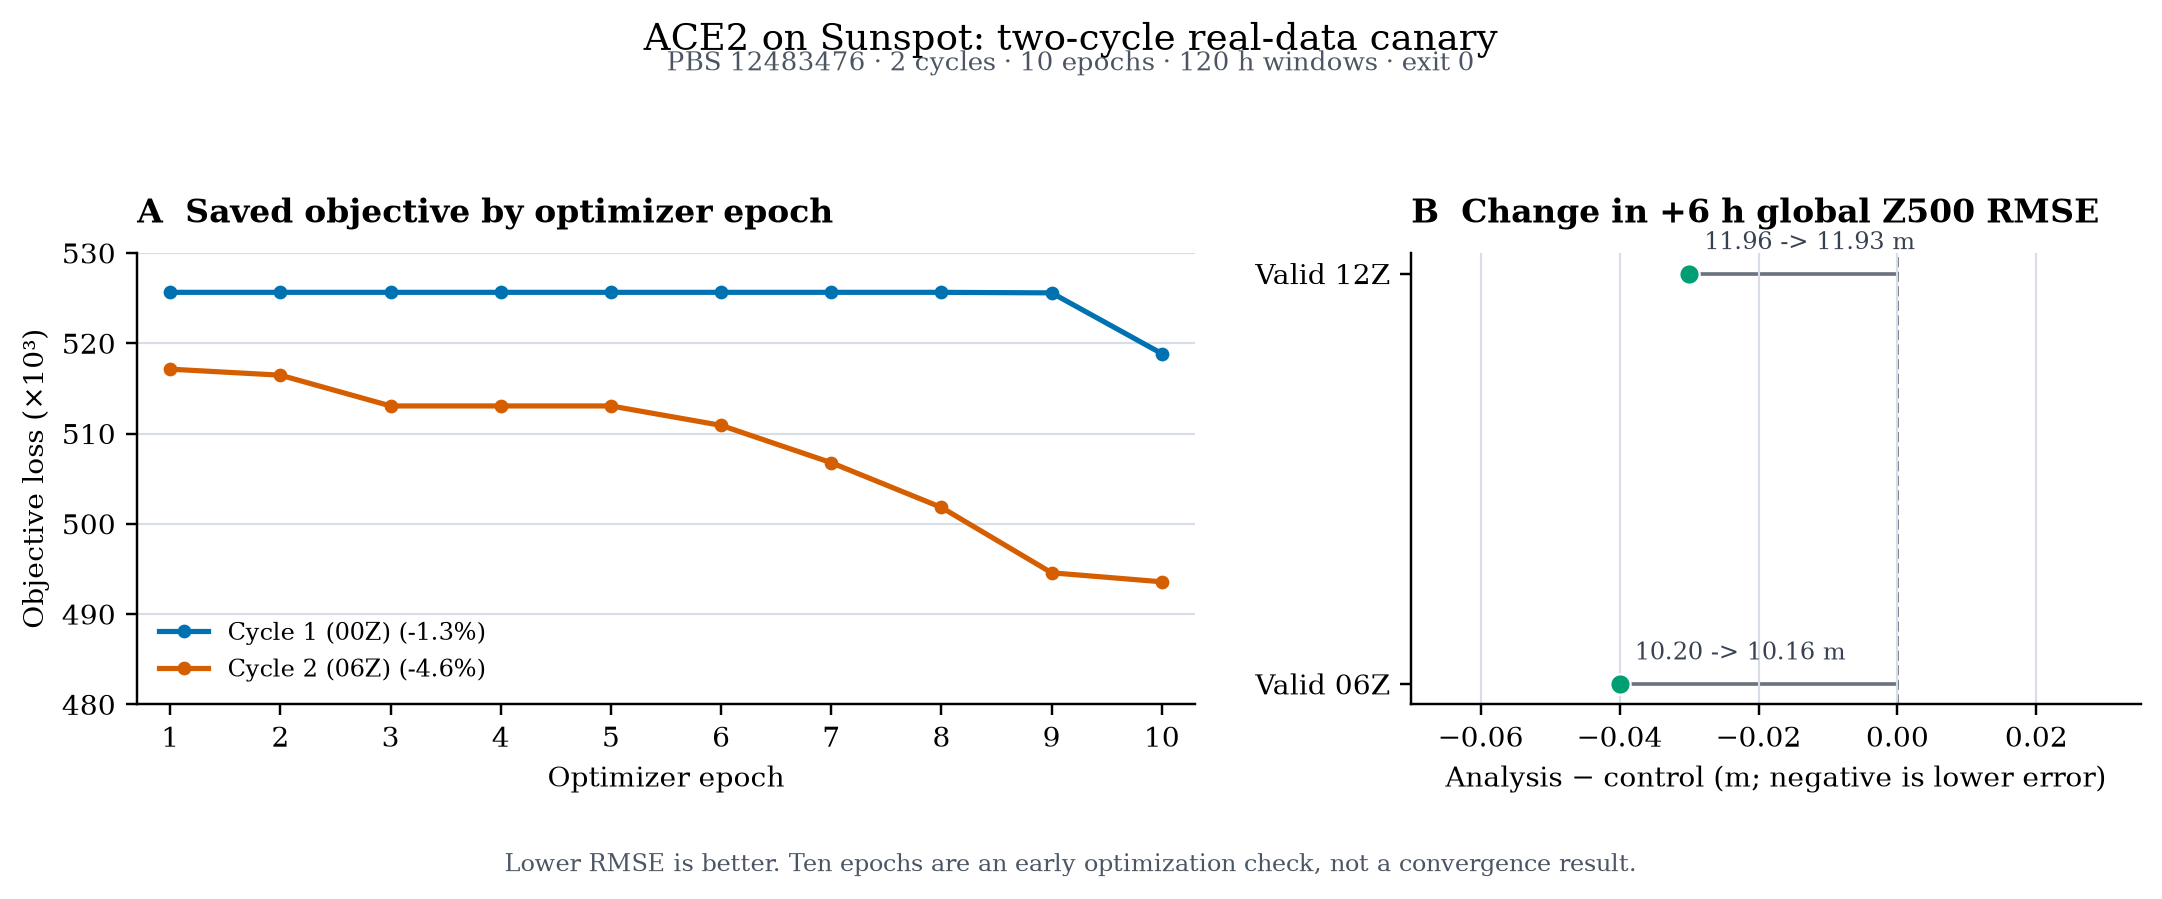
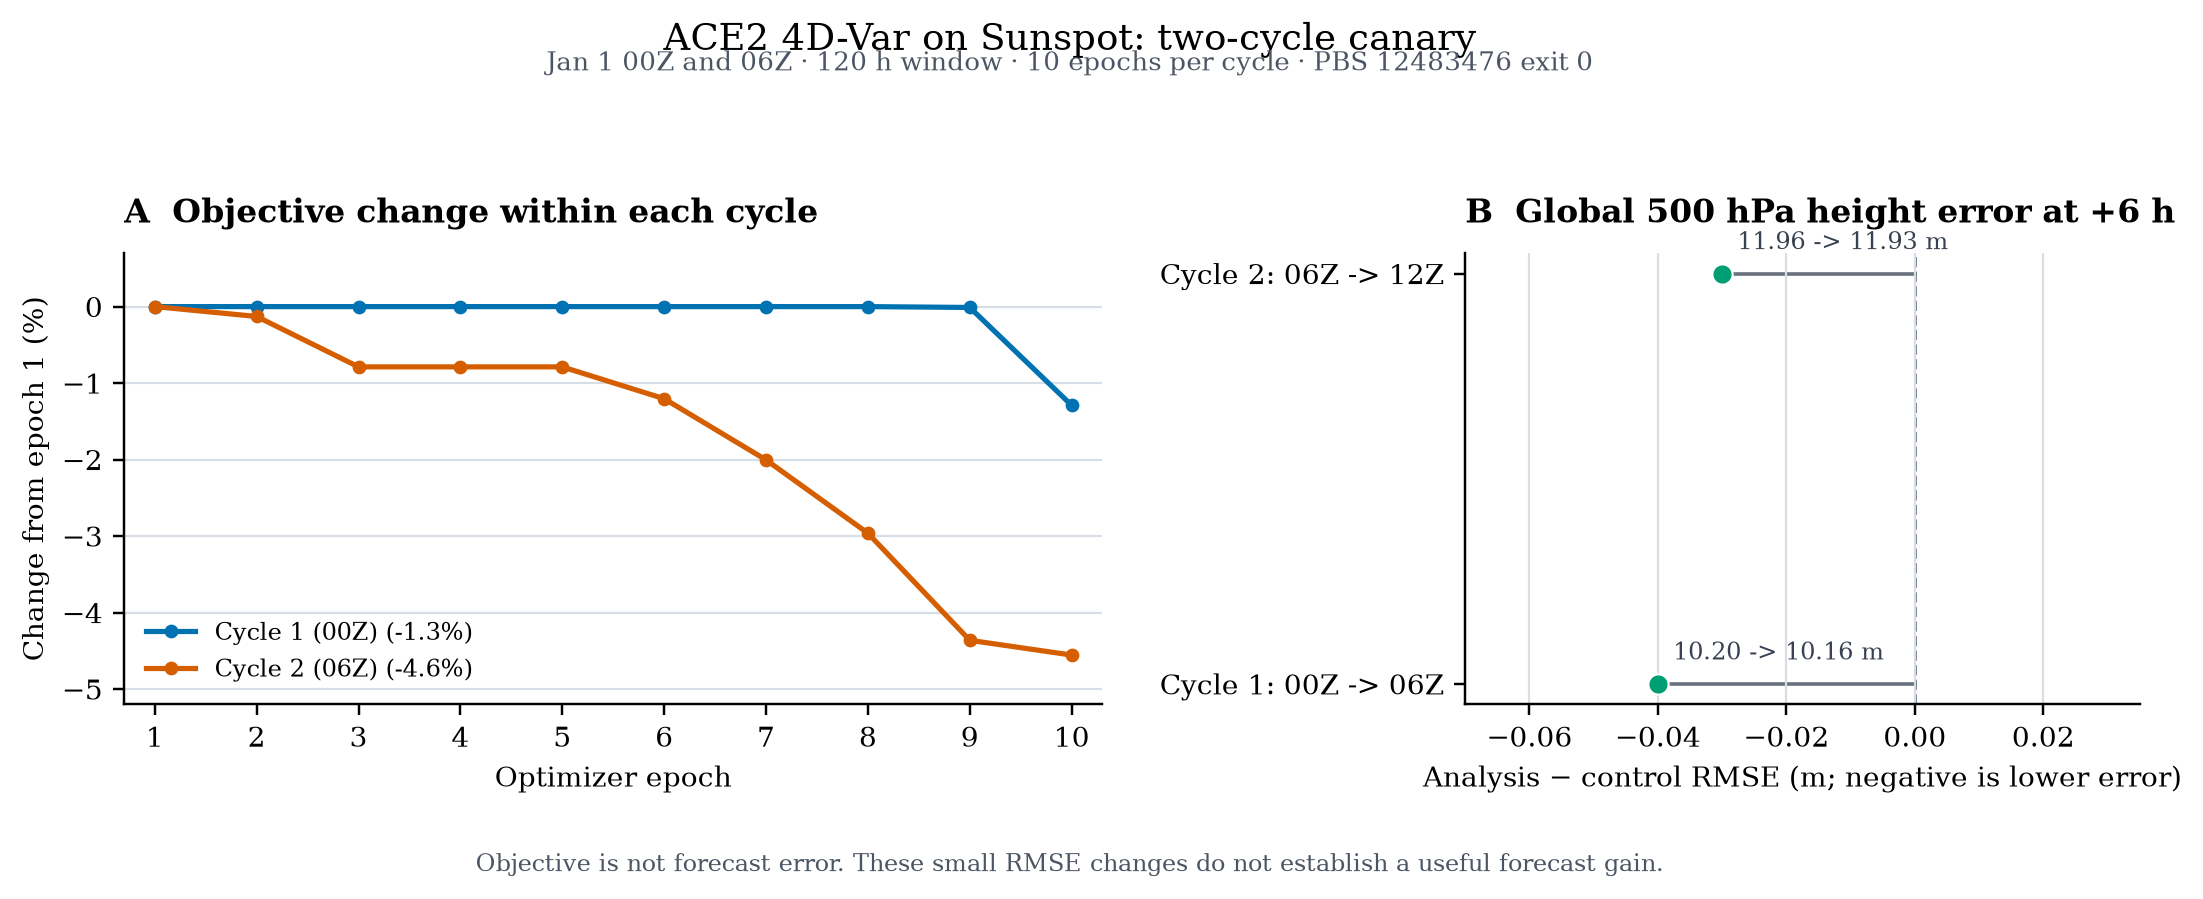
Clarify ACE2 canary figure and interpretation

diff --git a/figures/plot_ace2_sunspot_canary.py b/figures/plot_ace2_sunspot_canary.py
@@ -92,11 +92,11 @@ def make_figure() -> None:
     fig, (ax_loss, ax_rmse) = plt.subplots(
         1, 2, figsize=(10.2, 4.0), gridspec_kw={"width_ratios": [1.45, 1.0]}
     )
-    fig.suptitle("ACE2 on Sunspot: two-cycle real-data canary", y=0.98, fontsize=12)
+    fig.suptitle("ACE2 4D-Var on Sunspot: two-cycle canary", y=0.98, fontsize=12)
     fig.text(
         0.5,
         0.925,
-        "PBS 12483476 · 2 cycles · 10 epochs · 120 h windows · exit 0",
+        "Jan 1 00Z and 06Z · 120 h window · 10 epochs per cycle · PBS 12483476 exit 0",
         ha="center",
         fontsize=8.5,
         color="#4b5563",
@@ -105,24 +105,24 @@ def make_figure() -> None:
     for cycle in ("2015-01-01T00", "2015-01-01T06"):
         values = losses[cycle]
         epochs = range(1, len(values) + 1)
+        relative = [(value / values[0] - 1) * 100 for value in values]
         pct = 100 * (values[-1] / values[0] - 1)
         ax_loss.plot(
             epochs,
-            values,
+            relative,
             color=COLORS[cycle],
             marker="o",
             markersize=3.5,
             linewidth=1.7,
             label=f"{LABELS[cycle]} ({pct:.1f}%)",
         )
-    ax_loss.set_title("A  Saved objective by optimizer epoch", loc="left", pad=10)
+    ax_loss.set_title("A  Objective change within each cycle", loc="left", pad=10)
     ax_loss.set_xlabel("Optimizer epoch")
-    ax_loss.set_ylabel("Objective loss (×10³)")
+    ax_loss.set_ylabel("Change from epoch 1 (%)")
     ax_loss.set_xlim(0.7, 10.3)
     ax_loss.set_xticks(range(1, 11))
-    ax_loss.set_ylim(480_000, 530_000)
-    ax_loss.set_yticks([480_000, 490_000, 500_000, 510_000, 520_000, 530_000])
-    ax_loss.set_yticklabels(["480", "490", "500", "510", "520", "530"])
+    ax_loss.set_ylim(-5.2, 0.7)
+    ax_loss.set_yticks([-5, -4, -3, -2, -1, 0])
     ax_loss.grid(axis="y", color="#d8dee8", linewidth=0.7)
     ax_loss.legend(frameon=False, loc="lower left")
 
@@ -140,10 +140,10 @@ def make_figure() -> None:
             color="#374151",
         )
     ax_rmse.axvline(0, color="#6b7280", linestyle="--", linewidth=0.9, zorder=0)
-    ax_rmse.set_title("B  Change in +6 h global Z500 RMSE", loc="left", pad=10)
-    ax_rmse.set_xlabel("Analysis − control (m; negative is lower error)")
+    ax_rmse.set_title("B  Global 500 hPa height error at +6 h", loc="left", pad=10)
+    ax_rmse.set_xlabel("Analysis − control RMSE (m; negative is lower error)")
     ax_rmse.set_yticks(positions)
-    ax_rmse.set_yticklabels(["Valid 06Z", "Valid 12Z"])
+    ax_rmse.set_yticklabels(["Cycle 1: 00Z -> 06Z", "Cycle 2: 06Z -> 12Z"])
     ax_rmse.set_xlim(-0.07, 0.035)
     ax_rmse.set_xticks([-0.06, -0.04, -0.02, 0.00, 0.02])
     ax_rmse.grid(axis="x", color="#d8dee8", linewidth=0.7)
@@ -151,7 +151,7 @@ def make_figure() -> None:
     fig.text(
         0.5,
         0.015,
-        "Lower RMSE is better. Ten epochs are an early optimization check, not a convergence result.",
+        "Objective is not forecast error. These small RMSE changes do not establish a useful forecast gain.",
         ha="center",
         fontsize=8,
         color="#4b5563",

diff --git a/ALCF_STATUS.md b/ALCF_STATUS.md
@@ -49,11 +49,25 @@ each. Sunspot PBS job `12483476` completed on `x1922c5s3b0n0` with
 wrote 20 NetCDF/Pickle/diagnostic artifacts (about 1.3 GB) under
 `output/test_ace2_2cycle_10it_sunspot/`.
 
+Each cycle optimizes ACE2's starting state so its five-day trajectory fits the
+surface-pressure observations better. The first cycle starts at
+`2015-01-01T00`; the analysis is advanced six hours and the second cycle starts
+at `2015-01-01T06`. Ten optimizer epochs run per cycle, instead of 50 in the full config.
+The objective combines the assimilation costs; it is not a forecast-error
+score, and its absolute value differs by cycle because each cycle has different
+states and observations.
+
 At +6 hours the global Z500 RMS error changed from `10.20 m` to `10.16 m`; at
 +12 hours it changed from `11.96 m` to `11.93 m`. The logged loss moved from
 `525647.8` to `518862.4` for cycle 1 and from `517137.2` to `493581.7` for
 cycle 2. These 10-epoch cycles are a quick hardware and pipeline check, not a
 converged substitute for the 50-epoch full experiment.
+
+Panel A shows each cycle's objective change from its own epoch-1 value; compare
+the within-cycle slopes, not the absolute objective between cycles. Panel B
+compares global 500 hPa height RMSE at each cycle's +6-hour verification time,
+before and after assimilation. The changes are `-0.04 m` and `-0.03 m`; this
+two-cycle canary does not establish a useful forecast improvement.
 
 ![ACE2 Sunspot canary loss traces and Z500 error changes](figures/ace2_sunspot_2cycle_10it.png)
 
